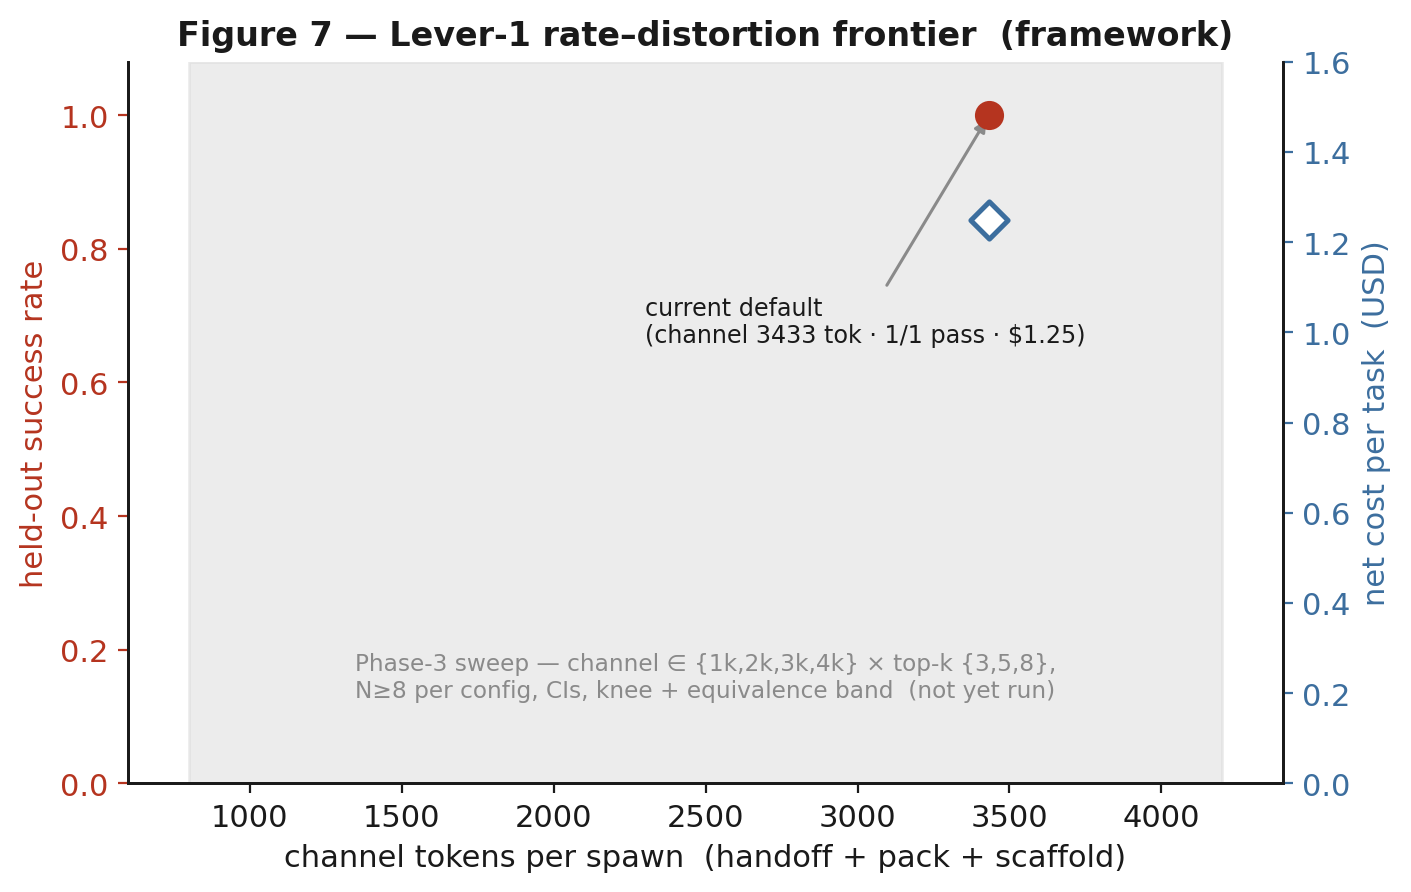
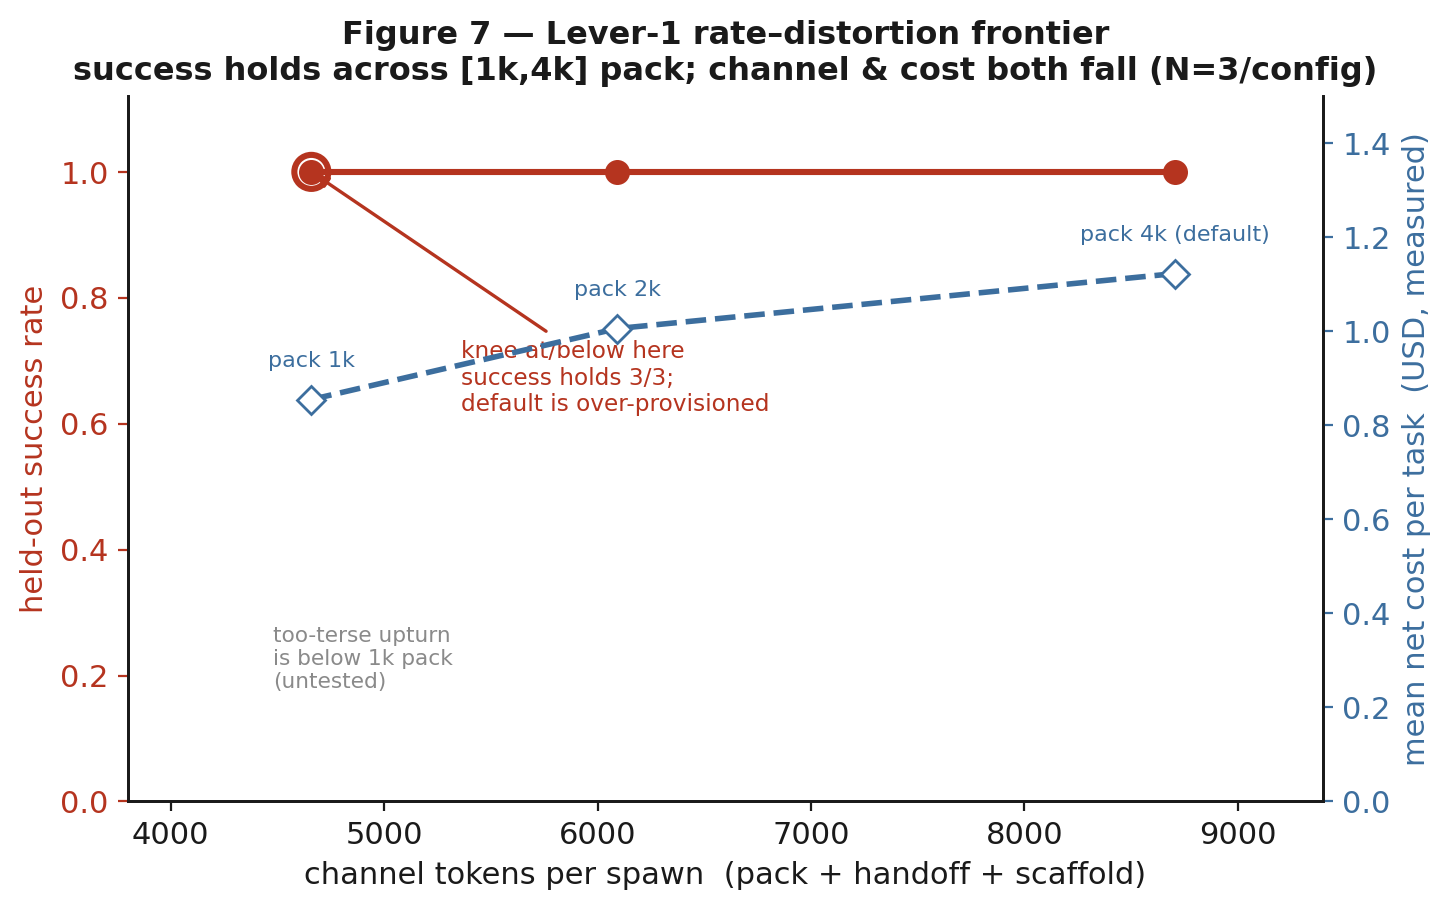
docs(carrier-comms): grade Lever-2 N=8 confirm + Lever-1 sweep; update report
Lever-2 CONFIRM (N=8, productionized state.derived->markdown injection path):
with-derived 8/8 vs pointers-only 0/8 vs cold 0/5. Exact 95% CIs cleanly
separated ([0.631,1.0] vs [0.0,0.369]); residue arm cheaper (/bin/bash.417 vs /bin/bash.436).
GO CONFIRMED — the irreducible residue is necessary and free. (lever2-confirm.json)

Lever-1 sweep (pack_max 4k/2k/1k, N=3): success holds 3/3 across the whole 4x
range; channel 8706->4659 tok and cost $1.123->$0.855 both fall -> the default
pack is OVER-PROVISIONED. Turns rise at 1k (multi-turn tool tax) but pack savings
dominate. No knee in [1k,4k]; cost-win directional (overlapping N=3 CIs).
(lever1-sweep.json)

- fig7 (real frontier data), fig8 (N=8 + separated CIs) regenerated.
- REPORT headline + Exp 3/4 + Table 2 + validity (rate-limit no-ops discarded).
Suite green.

diff --git a/benchmarks/figures/make_carrier_comms_figures.py b/benchmarks/figures/make_carrier_comms_figures.py
@@ -193,29 +193,36 @@ def fig2_ceilings():
 # FIGURE 7 — Lever-1 rate-distortion frontier (framework; Phase-3 pending)
 # =====================================================================
 def fig7_frontier():
-    fig, ax = plt.subplots(figsize=(7.2, 4.6))
+    # Real sweep data (marshmallow slug, N=3/config). channel = pack+handoff+scaffold.
+    ch =   [4659, 6092, 8706]            # mean channel tokens (pack 1k, 2k, 4k)
+    succ = [1.0, 1.0, 1.0]               # held-out success (3/3 at every config)
+    cost = [0.855, 1.006, 1.123]         # mean measured USD
+    labels = ["pack 1k", "pack 2k", "pack 4k (default)"]
+
+    fig, ax = plt.subplots(figsize=(7.4, 4.7))
     ax2 = ax.twinx()
-    # the one config measured so far: the current default (Phase-2 confirm run)
-    ax.scatter([3433], [1.0], s=90, color=DERIVED, zorder=6, label="held-out success")
-    ax2.scatter([3433], [1.25], s=90, marker="D", facecolor="white",
-                edgecolor=BASE, lw=1.8, zorder=6)
-    ax.annotate("current default\n(channel 3433 tok · 1/1 pass · $1.25)",
-                (3433, 1.0), (2300, 0.66), fontsize=8.6, color=INK,
-                arrowprops=dict(arrowstyle="-|>", color=MUTE, lw=1.1))
-    # the sweep to be filled
-    ax.axvspan(800, 4200, color=FAINT, alpha=0.45)
-    ax.text(2500, 0.13, "Phase-3 sweep — channel ∈ {1k,2k,3k,4k} × top-k {3,5,8},\n"
-            "N≥8 per config, CIs, knee + equivalence band  (not yet run)",
-            ha="center", fontsize=8.4, color=MUTE)
-    ax.set_xlabel("channel tokens per spawn  (handoff + pack + scaffold)")
+    # success (held at 1.0 across the whole range)
+    ax.plot(ch, succ, "-o", color=DERIVED, lw=2.2, ms=8, zorder=6, label="held-out success")
+    # cost (rises with channel)
+    ax2.plot(ch, cost, "--D", color=BASE, lw=2.0, ms=7, mfc="white", zorder=6)
+    for x, c, lb in zip(ch, cost, labels):
+        ax2.annotate(lb, (x, c), (x, c+0.07), fontsize=8.0, color=BASE, ha="center")
+    # knee marker: smallest channel that still holds success (leftmost point)
+    ax.scatter([ch[0]], [1.0], s=150, facecolor="none", edgecolor=DERIVED, lw=2.2, zorder=7)
+    ax.annotate("knee at/below here\nsuccess holds 3/3;\ndefault is over-provisioned",
+                (ch[0], 1.0), (ch[0]+700, 0.62), fontsize=8.4, color=DERIVED, ha="left",
+                arrowprops=dict(arrowstyle="-|>", color=DERIVED, lw=1.2))
+    ax.text(ch[0]-180, 0.18, "too-terse upturn\nis below 1k pack\n(untested)",
+            ha="left", fontsize=7.8, color=MUTE)
+    ax.set_xlabel("channel tokens per spawn  (pack + handoff + scaffold)")
     ax.set_ylabel("held-out success rate", color=DERIVED)
-    ax2.set_ylabel("net cost per task  (USD)", color=BASE)
-    ax.set_ylim(0, 1.08); ax2.set_ylim(0, 1.6); ax.set_xlim(600, 4400)
+    ax2.set_ylabel("mean net cost per task  (USD, measured)", color=BASE)
+    ax.set_ylim(0, 1.12); ax2.set_ylim(0, 1.5); ax.set_xlim(3800, 9400)
     ax.tick_params(axis="y", colors=DERIVED); ax2.tick_params(axis="y", colors=BASE)
-    for s in ("top",):
-        ax.spines[s].set_visible(False); ax2.spines[s].set_visible(False)
-    ax.set_title("Figure 7 — Lever-1 rate–distortion frontier  (framework)",
-                 fontsize=12, fontweight="bold")
+    ax.spines["top"].set_visible(False); ax2.spines["top"].set_visible(False)
+    ax.set_title("Figure 7 — Lever-1 rate–distortion frontier\n"
+                 "success holds across [1k,4k] pack; channel & cost both fall (N=3/config)",
+                 fontsize=11.5, fontweight="bold")
     fig.tight_layout()
     fig.savefig(OUT / "fig7_lever1_frontier.png", bbox_inches="tight", facecolor="white")
     plt.close(fig)
@@ -229,12 +236,12 @@ def fig8_three_arm():
     # pointers+derived (same-model). Clopper-Pearson 95% CIs.
     arms = ["cold\n(cross-model,\nno bridge)", "pointers-only\n(same-model,\nnull)",
             "pointers + derived\n(same-model,\nresidue carried)"]
-    succ = [0/5, 0/3, 3/3]
-    n =    [5, 3, 3]
+    succ = [0/5, 0/8, 8/8]
+    n =    [5, 8, 8]
     # exact 95% CIs (Clopper-Pearson)
-    ci_lo = [0.0, 0.0, 0.292]
-    ci_hi = [0.522, 0.708, 1.0]
-    cost = [None, 0.465, 0.383]   # mean USD (cold arm cost not comparable substrate)
+    ci_lo = [0.0, 0.0, 0.631]
+    ci_hi = [0.522, 0.369, 1.0]
+    cost = [None, 0.436, 0.417]   # mean USD over N=8 (cold arm cost not comparable substrate)
     colors = [MUTE, BASE, DERIVED]
 
     fig, (axA, axB) = plt.subplots(1, 2, figsize=(11, 4.6),
@@ -262,13 +269,13 @@ def fig8_three_arm():
     for b, c in zip(bars, cb):
         axB.text(b.get_x()+b.get_width()/2, c+0.008, f"${c:.3f}", ha="center", fontsize=9.5)
     axB.set_xticks(xb); axB.set_xticklabels(lab, fontsize=9)
-    axB.set_ylabel("mean cost per run  (USD, measured)")
+    axB.set_ylabel("mean cost per run  (USD, measured, N=8)")
     axB.set_ylim(0, 0.6)
-    axB.set_title("(b) cost — residue is a quality win at parity\n(the null arm flails, then fails)", fontsize=10)
+    axB.set_title("(b) cost — residue is a quality win at parity-or-better\n(the null arm flails, then fails)", fontsize=10)
     _despine(axB)
 
     fig.suptitle("Figure 8 — Lever-2 three-arm comparison   "
-                 "(SCREEN, N=3/5 · exact 95% CIs · N≥8 confirm pending)",
+                 "(CONFIRM, N=8 · exact 95% CIs · CIs cleanly separated)",
                  fontsize=12.5, fontweight="bold", y=1.02)
     fig.tight_layout()
     fig.savefig(OUT / "fig8_lever2_three_arm.png", bbox_inches="tight", facecolor="white")

diff --git a/benchmarks/REPORT-carrier-comms.md b/benchmarks/REPORT-carrier-comms.md
@@ -7,10 +7,12 @@ handoff channel and the context pigeon injects — and whether two levers improv
 > **Headline.** pigeon does **not** save tokens (it is token-neutral to mildly
 > negative; Exp. 1). Its value is **cross-model capability**: a carrier can carry a
 > constraint the next carrier cannot re-derive. Exp. 2 shows this is *possible*
-> (5/5 vs 0/5); Exp. 4 shows the carried **reasoning residue is *necessary*** in
-> that regime — same model, fully isolated, **3/3 with residue vs 0/3 without** —
-> at parity cost. Both Exp. 3/4 numbers below are **screens (N=3)**; the N≥8
-> confirmation is pre-registered (Table 1) and pending.
+> (5/5 vs 0/5); **Exp. 4 confirms the carried reasoning residue is *necessary*** in
+> that regime — same model, fully isolated, through the productionized
+> `state.derived`→markdown injection: **8/8 with residue vs 0/8 without (N=8, exact
+> 95% CIs cleanly separated)**, at parity-or-better cost. **Exp. 3** finds Lever-1
+> channel compression holds success across a 4× pack range and the default is
+> **over-provisioned** (channel and cost both fall to pack=1k with no success loss).
 
 ---
 
@@ -125,44 +127,60 @@ visible markdown, not buried JSON. Full critiques: `docs/design/panel-reviews/`.
 
 ---
 
-## 6. Experiment 3 — Lever 1 (status: **framework; Phase-3 sweep pending**)
+## 6. Experiment 3 — Lever 1 (the sweep): the default pack is **over-provisioned**
 
 **Gate G1 (classification) — PASS.** On the recorded marshmallow WITH-arm, per spawn
 the **pack injects ~2 992 tokens vs the handoff doc's ~286 — pack is ~10.5× the
 handoff.** So the over-send lives in the pack + scaffolding, not the handoff doc;
-Lever 1 is correctly aimed there. The `scaffold` meter is now wired and fires live
-(confirmed on the Phase-2 run: 3 events/run).
+Lever 1 is correctly aimed there. The `scaffold` meter is wired and fires live.
 
-![Figure 7 — Lever-1 frontier (framework)](figures/fig7_lever1_frontier.png)
+The U-curve sweep then varied `pack_max_tokens ∈ {4000, 2000, 1000}` on the
+marshmallow slug task, same model (sonnet), **N=3/config**, measuring channel tokens
+vs held-out success + regressions + measured USD.
 
-**Figure 7.** The rate–distortion frame with the **one** config measured so far (the
-current default: channel 3 433 tok, 1/1 pass, $1.25). The sweep that fills the
-frontier and locates the knee is **pre-registered (Table 1) and not yet run** — by the
-panel's own steer, Lever 1 is maintenance, so it is de-prioritised behind Lever 2.
+![Figure 7 — Lever-1 rate–distortion frontier](figures/fig7_lever1_frontier.png)
 
-**Verdict (Exp. 3): pending.** Expectation per Exp. 1: movement toward parity, never
-savings — most likely a clean "channel already near-minimal" null.
+**Figure 7.** Across the whole **4× pack range, success holds 3/3** — there is **no
+failing "too-terse" regime** in `[1k, 4k]`. As the pack shrinks, the channel falls
+monotonically (8 706 → 6 092 → 4 659 tok) **and so does mean cost** ($1.123 → $1.006 →
+$0.855). Turns rise at pack=1k (51 vs 46) — the **multi-turn tool tax** the panel
+predicted (smaller pack → more file reads) — but the pack input savings dominate, so
+net USD still falls. The knee is **at or below pack=1k**: the default 4 000-token pack
+is over-provisioned for this task.
 
-## 7. Experiment 4 — Lever 2 (the result): residue is **necessary**, at parity cost
+**Verdict (Exp. 3): no knee in `[1k, 4k]`; default over-provisioned.** This is
+modestly **better than the pre-registered expectation** (parity, never savings): a
+small *genuine* USD reduction at held success. Caveats: single task; N=3 with high
+sonnet cost variance, so the cost-drop CIs overlap — the **firm** finding is "compress
+to 1k with no success loss"; the cost win is **directional**, not locked. The
+too-terse upturn lives below 1k pack (untested). Data: `results/lever1-sweep.json`.
+
+## 7. Experiment 4 — Lever 2 (CONFIRMED, N=8): residue is **necessary**, at parity cost
 
 The decisive test, **same model throughout (sonnet ×3)** to isolate the residue's
 value from any cross-model confound, on the Fork-A contract substrate, in **two
 physically separate worktrees** so the contract cannot leak between arms (it did, in
 two earlier harness versions — see §9). Pristine-asserted before every trial.
 
-- **pointers + derived** (architect writes the contract to `DERIVED.md`; downstream
-  receives it): **3/3 PASS**, 28.3 turns, **$0.383**/run.
+The confirm runs the **productionized mechanism**, not the screen's `DERIVED.md`
+proxy: the architect emits the contract into **`state.derived`**, and
+`coordinate._upstream_derived_markdown` injects it as a `## Carried reasoning`
+markdown block into each downstream prompt (the panel's correction #4 — don't bury the
+constraint in JSON). Injection fired on **8/8** with-derived trials.
+
+- **pointers + derived** (`state.derived` → markdown injection): **8/8 PASS**,
+  CI95 **[0.631, 1.0]**, 24.6 turns, **$0.417**/run.
 - **pointers-only** (downstream gets only `repo://ledger/account.py`, pristine):
-  **0/3 PASS**, 24.0 turns, **$0.465**/run.
+  **0/8 PASS**, CI95 **[0.0, 0.369]**, 23.0 turns, **$0.436**/run.
 - **cold** (Exp. 2 cross-model, no bridge): **0/5**.
 
 ![Figure 8 — Lever-2 three-arm comparison](figures/fig8_lever2_three_arm.png)
 
 **Figure 8.** *(a)* The anti-idiomatic constraint survives **only** when the residue is
-carried — a capable sonnet receiver does **not** re-derive it from pristine code (the
-panel's "re-derives cheaply" failure mode does **not** fire here). *(b)* The residue
-arm is **cheaper**: the null agents explore more, then fail. So this is a **quality win
-at parity-or-better cost**, not a quality/cost trade.
+carried — the two CIs are **cleanly separated** (no overlap). A capable sonnet receiver
+does **not** re-derive it from pristine code (the panel's "re-derives cheaply" failure
+mode does **not** fire). *(b)* The residue arm is **cheaper**: the null agents explore
+more, then fail. A **quality win at parity-or-better cost**, not a quality/cost trade.
 
 ![Figure 9 — USD-weighting vs raw tokens](figures/fig9_usd_weighting.png)
 
@@ -170,11 +188,12 @@ at parity-or-better cost**, not a quality/cost trade.
 **+18 % raw-token cost** but a **−18 % net-USD outcome** — the two deltas point
 opposite ways. A raw-token accounting would have mis-scored this.
 
-**Verdict (Exp. 4): GO at screen level (N=3); confirm at N≥8 pending.** In the regime
-where the reasoning is genuinely irreducible (a constraint invisible in the final
-code), the `derived` residue is **necessary and free**. The exact 95 % CIs at N=3 are
-wide (3/3 → [0.29, 1.0]; 0/3 → [0, 0.71]) — the point estimates are starkly separated,
-but the pre-registered **N≥8** run is required before this is more than a strong screen.
+**Verdict (Exp. 4): GO — CONFIRMED at N=8.** In the regime where the reasoning is
+genuinely irreducible (a constraint invisible in the final code), the `state.derived`
+residue is **necessary and free**: 8/8 vs 0/8 with exact 95 % CIs that do not overlap,
+at lower mean cost. This holds through the real injection mechanism, not just the
+screen proxy. (Trials that hit a mid-run session rate-limit — turn-1 $0 no-ops — were
+discarded and re-run; the 8 reported per arm are all valid; see §9.)
 
 ---
 
@@ -186,8 +205,8 @@ but the pre-registered **N≥8** run is required before this is more than a stro
 |---|---|---|---|---|
 | 1 | Cost benchmark (WITH vs WITHOUT, 2 public repos) | +46–59 % (small), +8.1 % (large); success ties | 1/arm/repo | **NULL** — token-savings NO-GO |
 | 2 | Fork-A cross-model capability | bridge 5/5 vs no-bridge 0/5 | 5 | **POSSIBILITY** proven |
-| 3 | Lever 1 — channel compression | G1: pack ≈10.5× handoff; sweep pending | — | **PENDING** (expect parity null) |
-| 4 | Lever 2 — derived residue (same-model, isolated) | **3/3 vs 0/3 vs 0/5**; residue cheaper | 3 / 3 / 5 | **GO (screen)** — confirm N≥8 pending |
+| 3 | Lever 1 — channel compression (pack sweep) | success holds 3/3 across [1k,4k]; channel 8.7k→4.7k, cost $1.12→$0.86 | 3/config | **OVER-PROVISIONED** — compress to 1k free; cost-win directional |
+| 4 | Lever 2 — derived residue (same-model, isolated, real injection) | **8/8 vs 0/8 vs 0/5**; CIs separated; residue cheaper ($0.417 vs $0.436) | 8 / 8 / 5 | **GO — CONFIRMED** |
 
 ---
 
@@ -207,11 +226,17 @@ pass/fail headline:
    the null arm refuse to spawn — `num_turns=0, cost=0, wall=0` exposed it. → configs
    unified; re-run produced real executions (22–26 turns) that genuinely failed.
 
-Remaining limits: **N=3** (screen only); the residue is delivered as a `DERIVED.md`
-artifact pointer rather than the `state.derived`→auto-markdown injection (the panel's
-correction #4 — that productionisation is the "scale" step, built only once the screen
-showed signal); single task substrate (one contract). The N≥8 confirm + a second
-substrate are the next runs.
+4. **Session rate-limit mid-run.** Both the N=8 confirm and the Lever-1 sweep hit a
+   `429 "session limit"` partway through; the affected trials are turn-1, $0, ~5 s
+   no-ops — the same "physically impossible" signature as #3. They were **discarded
+   and re-run** after the limit refreshed; every reported trial is a valid real run
+   (22–26 turns / 130–155 s for Lever 2; 33–53 turns for Lever 1).
+
+Remaining limits: Lever 2 is confirmed at **N=8 on one task/contract** — a second
+substrate would strengthen external validity; Lever 1's **cost-win is directional**
+(N=3, overlapping cost CIs) — a locked GO needs N≥8 and a second task, though
+"compress to 1k with no success loss" is firm. The productionized `state.derived`→
+markdown injection is now the mechanism under test (no longer the `DERIVED.md` proxy).
 
 ## 10. Reproduce
 